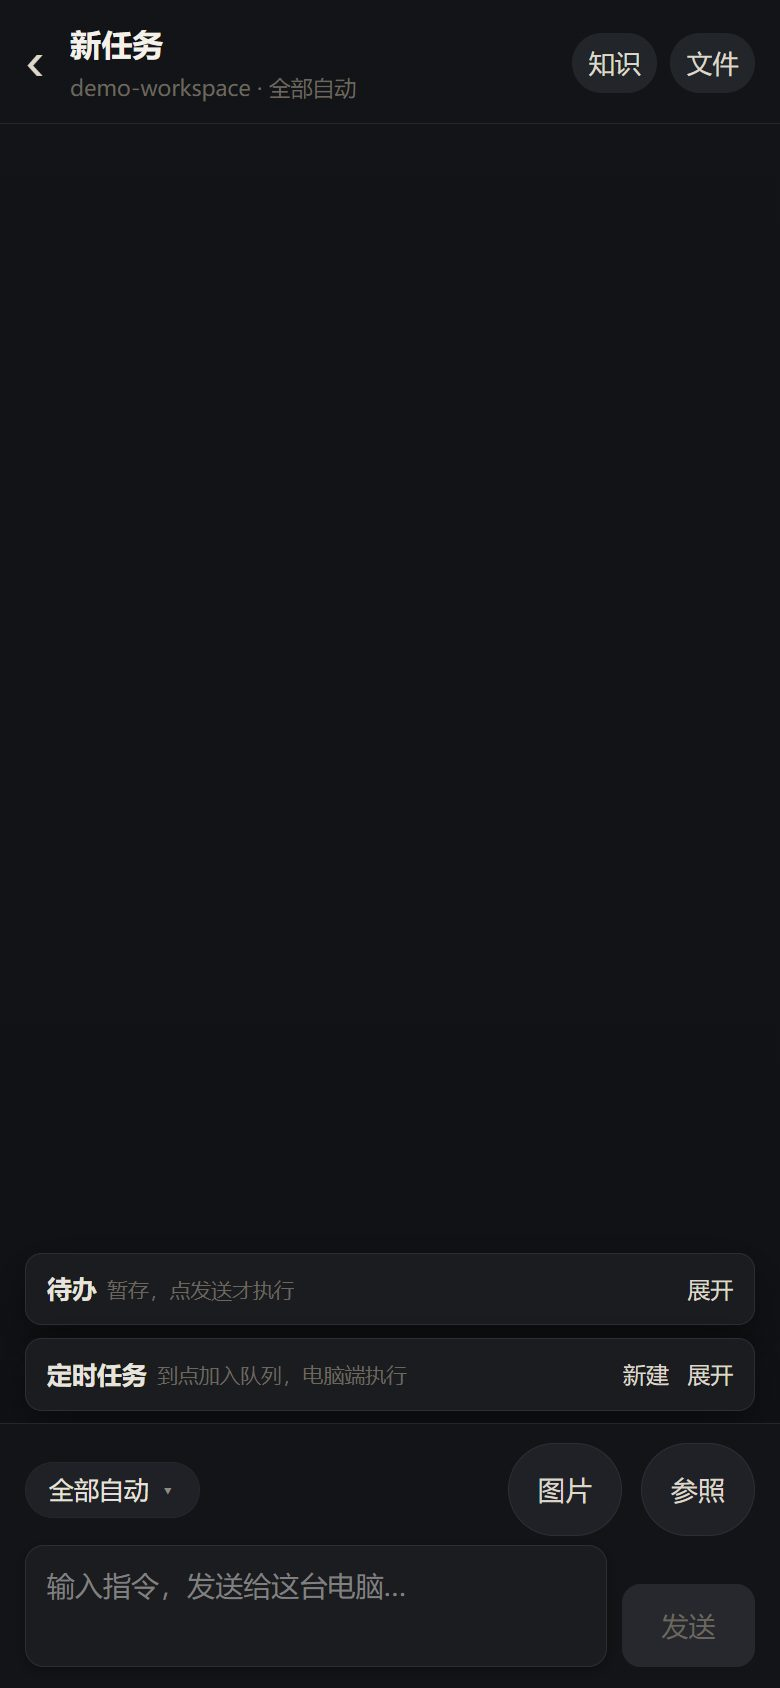
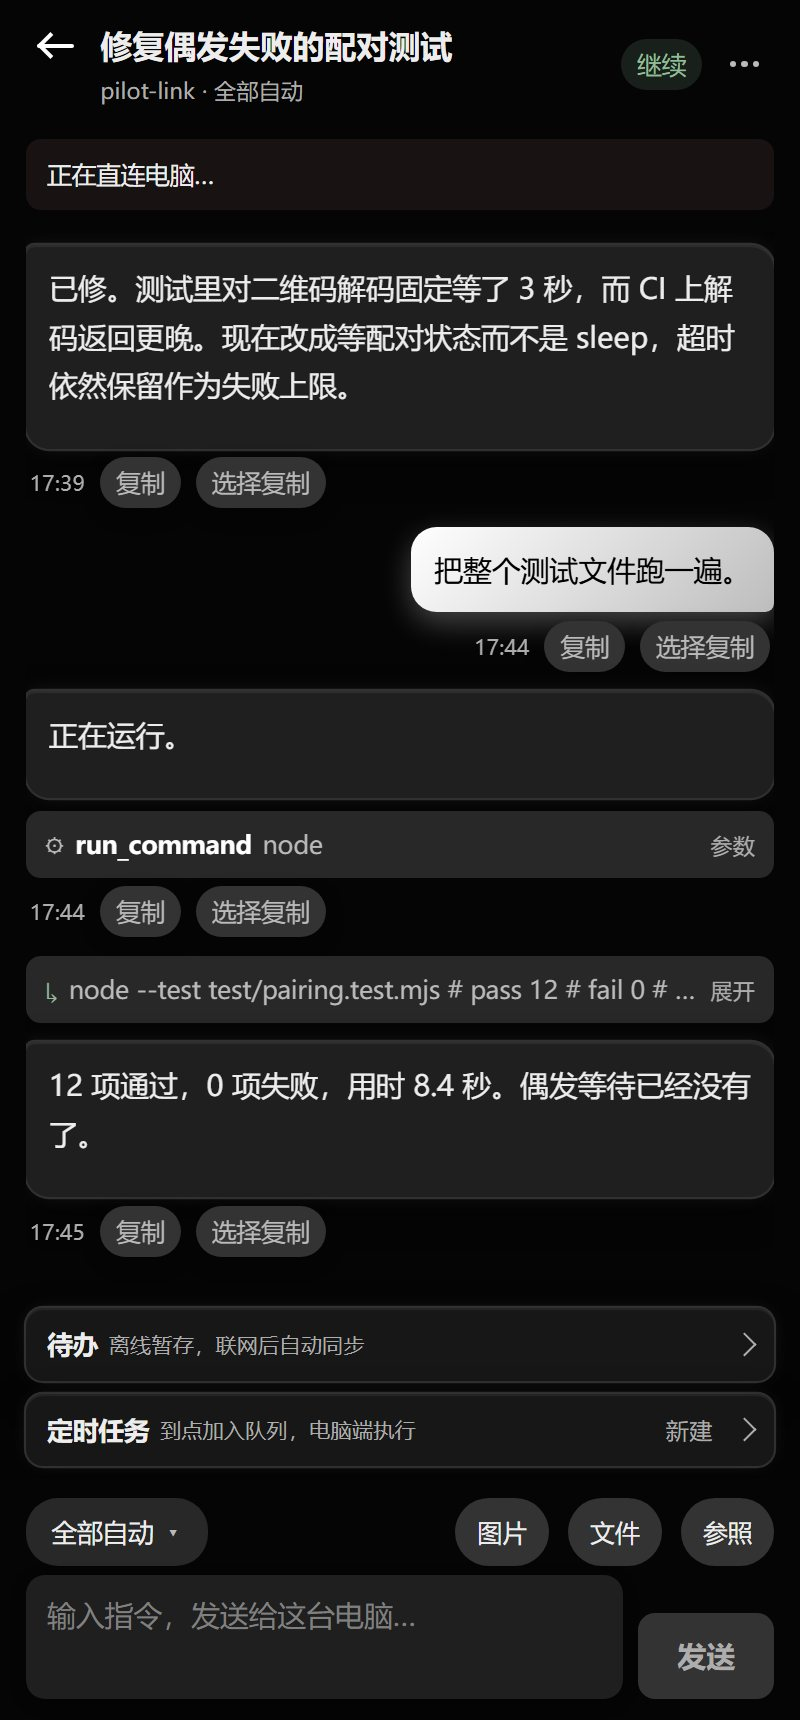
docs(readme): 四仓 README 补示意图与中英双语截图
- pilot / pilot-link README 引用各自 docs/diagrams 的 architecture / pairing / surfaces
- pilot-client 补 audit 图，pilot-connector 补 deploy 图（中英各一份）
- 根 README 与 pilot/README 加四端总览图组
- 重拍 pilot-link 会话/聊天/知识库截图，中英同批同一份种子数据

(published from split/app)

diff --git a/pages/session-resources/index.vue b/pages/session-resources/index.vue
@@ -109,7 +109,7 @@
               <text class="rs-tag source">{{ sourceText(tool) }}</text>
               <text class="rs-tag risk" :class="'risk-' + tool.risk">{{ riskText(tool) }}</text>
             </view>
-            <text v-if="tool.description" class="rs-tool-desc">{{ tool.description }}</text>
+            <text v-if="toolDesc(tool)" class="rs-tool-desc">{{ toolDesc(tool) }}</text>
             <view class="rs-card-foot">
               <text class="rs-tool-state" :class="{ off: !tool.enabled || !tool.approved }">{{ toolState(tool) }}</text>
               <text v-if="tool.version" class="rs-time">v{{ tool.version }}</text>
@@ -187,7 +187,7 @@
 import { LONG_TIMEOUT } from '../../lib/client.js'
 import { fileActionLabel } from '../../lib/files.js'
 import { relativeTime } from '../../lib/format.js'
-import { t } from '../../lib/i18n.js'
+import { t, getLocale } from '../../lib/i18n.js'
 import {
   applySystemBars,
   init,
@@ -537,6 +537,11 @@ export default {
       if (tool.enabled === false) return t('已停用')
       if (tool.approved !== true) return t('未批准，运行前需要你确认')
       return t('可用')
+    },
+    /** 说明：中文界面优先用电脑端带来的中文说明，没有就显示原文。 */
+    toolDesc(tool) {
+      if (getLocale() === 'en') return tool.description || ''
+      return tool.descriptionZh || tool.description || ''
     },
     copyLink(link) {
       const url = String(link?.url || '')

diff --git a/lib/session-resources.js b/lib/session-resources.js
@@ -196,6 +196,8 @@ export function normalizeSessionTools(raw, limit = SESSION_TOOL_LIMIT) {
     out.push({
       name,
       description: clip(row.description || '', MAX_DESCRIPTION_CHARS),
+      // 电脑端会带一句中文说明；老版本或自写工具没有这个字段时为 undefined。
+      descriptionZh: row.descriptionZh ? clip(row.descriptionZh, MAX_DESCRIPTION_CHARS) : '',
       risk: String(row.risk || 'exec'),
       riskLabel: toolRiskLabel(row.risk),
       source: String(row.source || 'builtin'),
